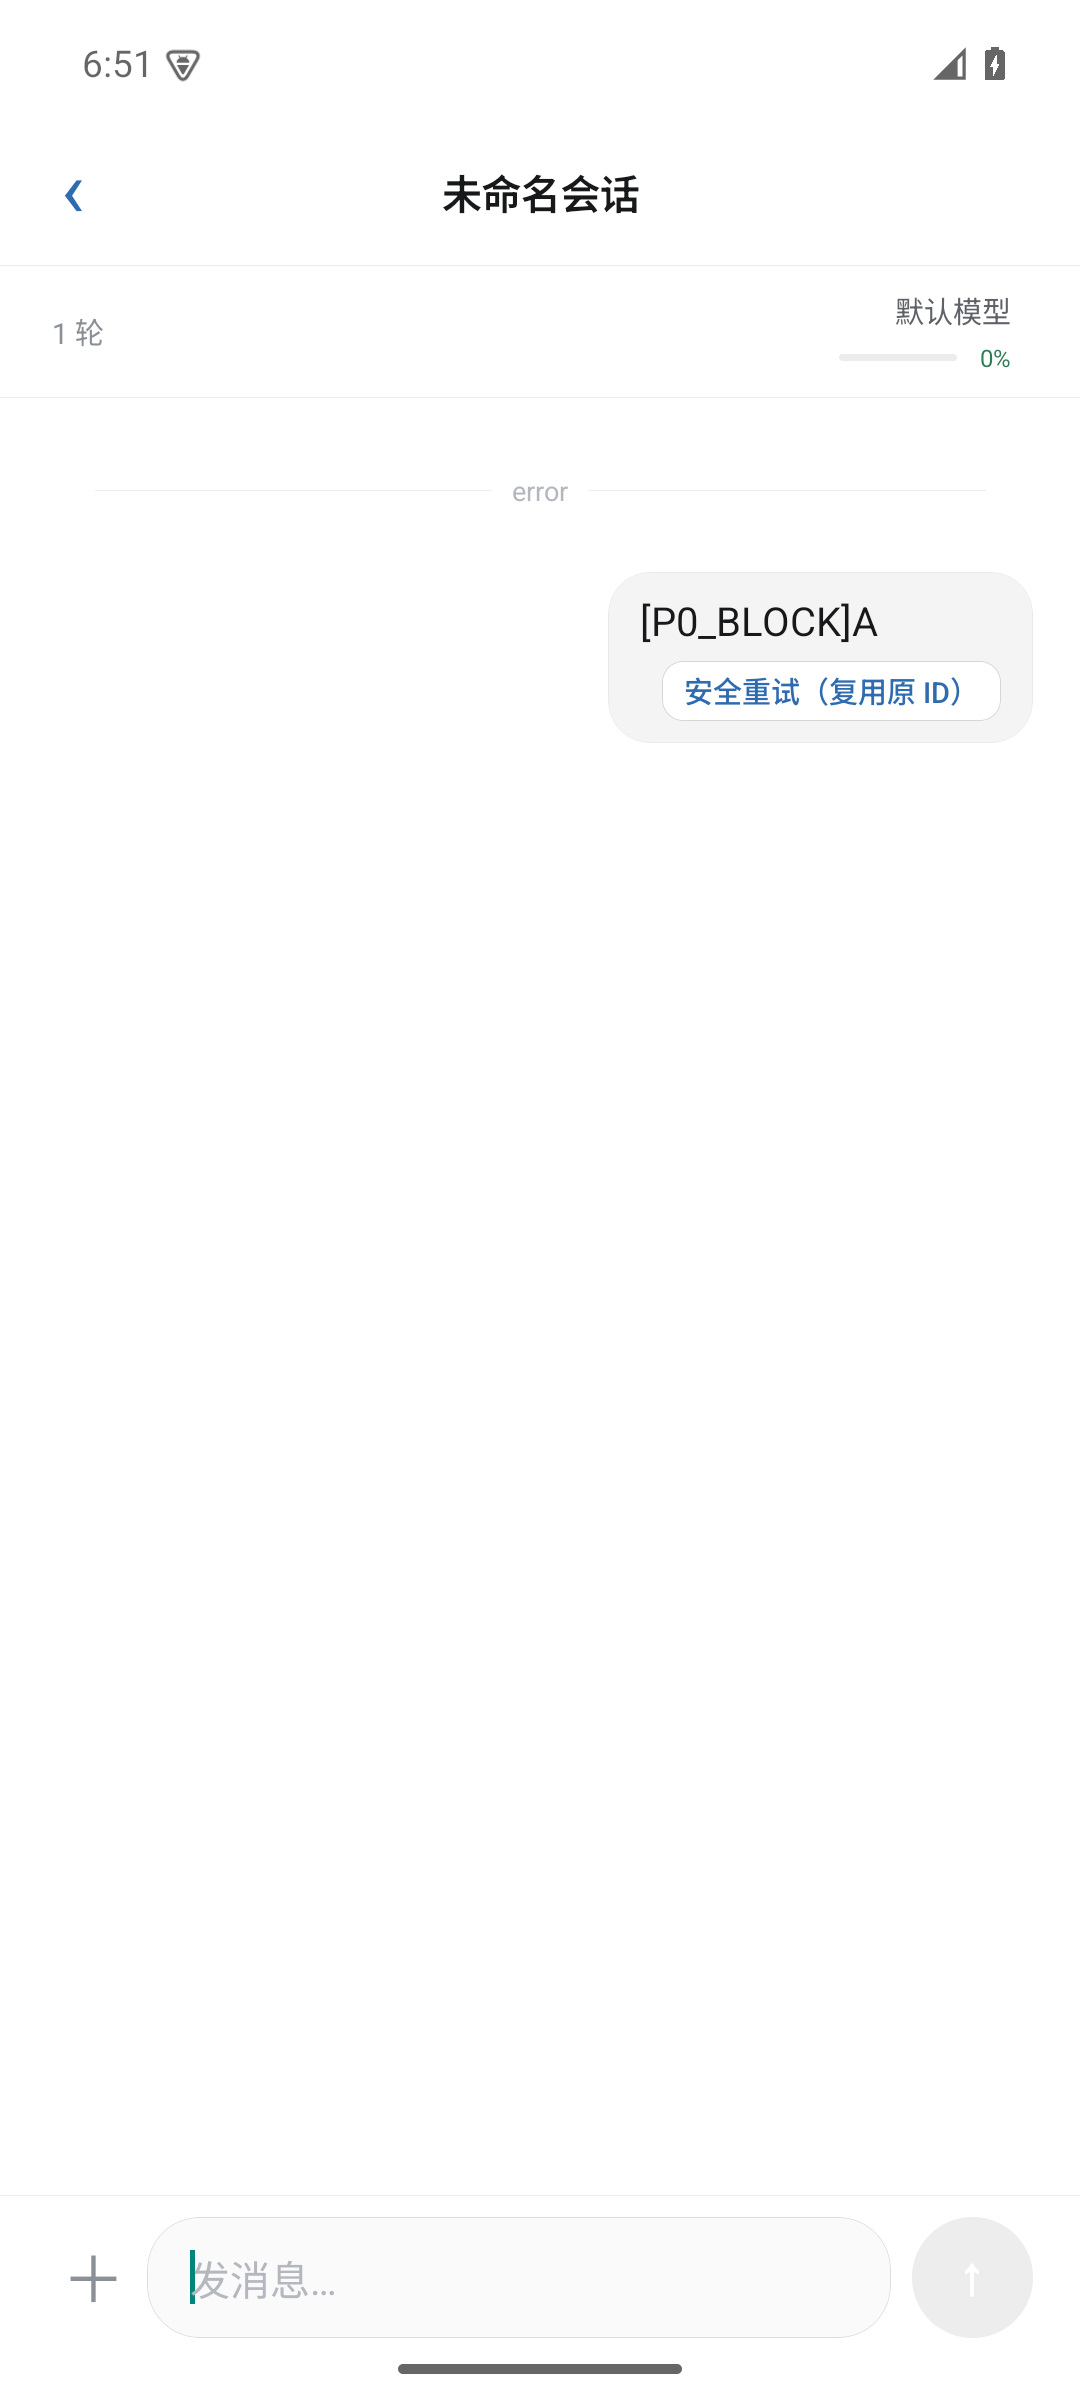
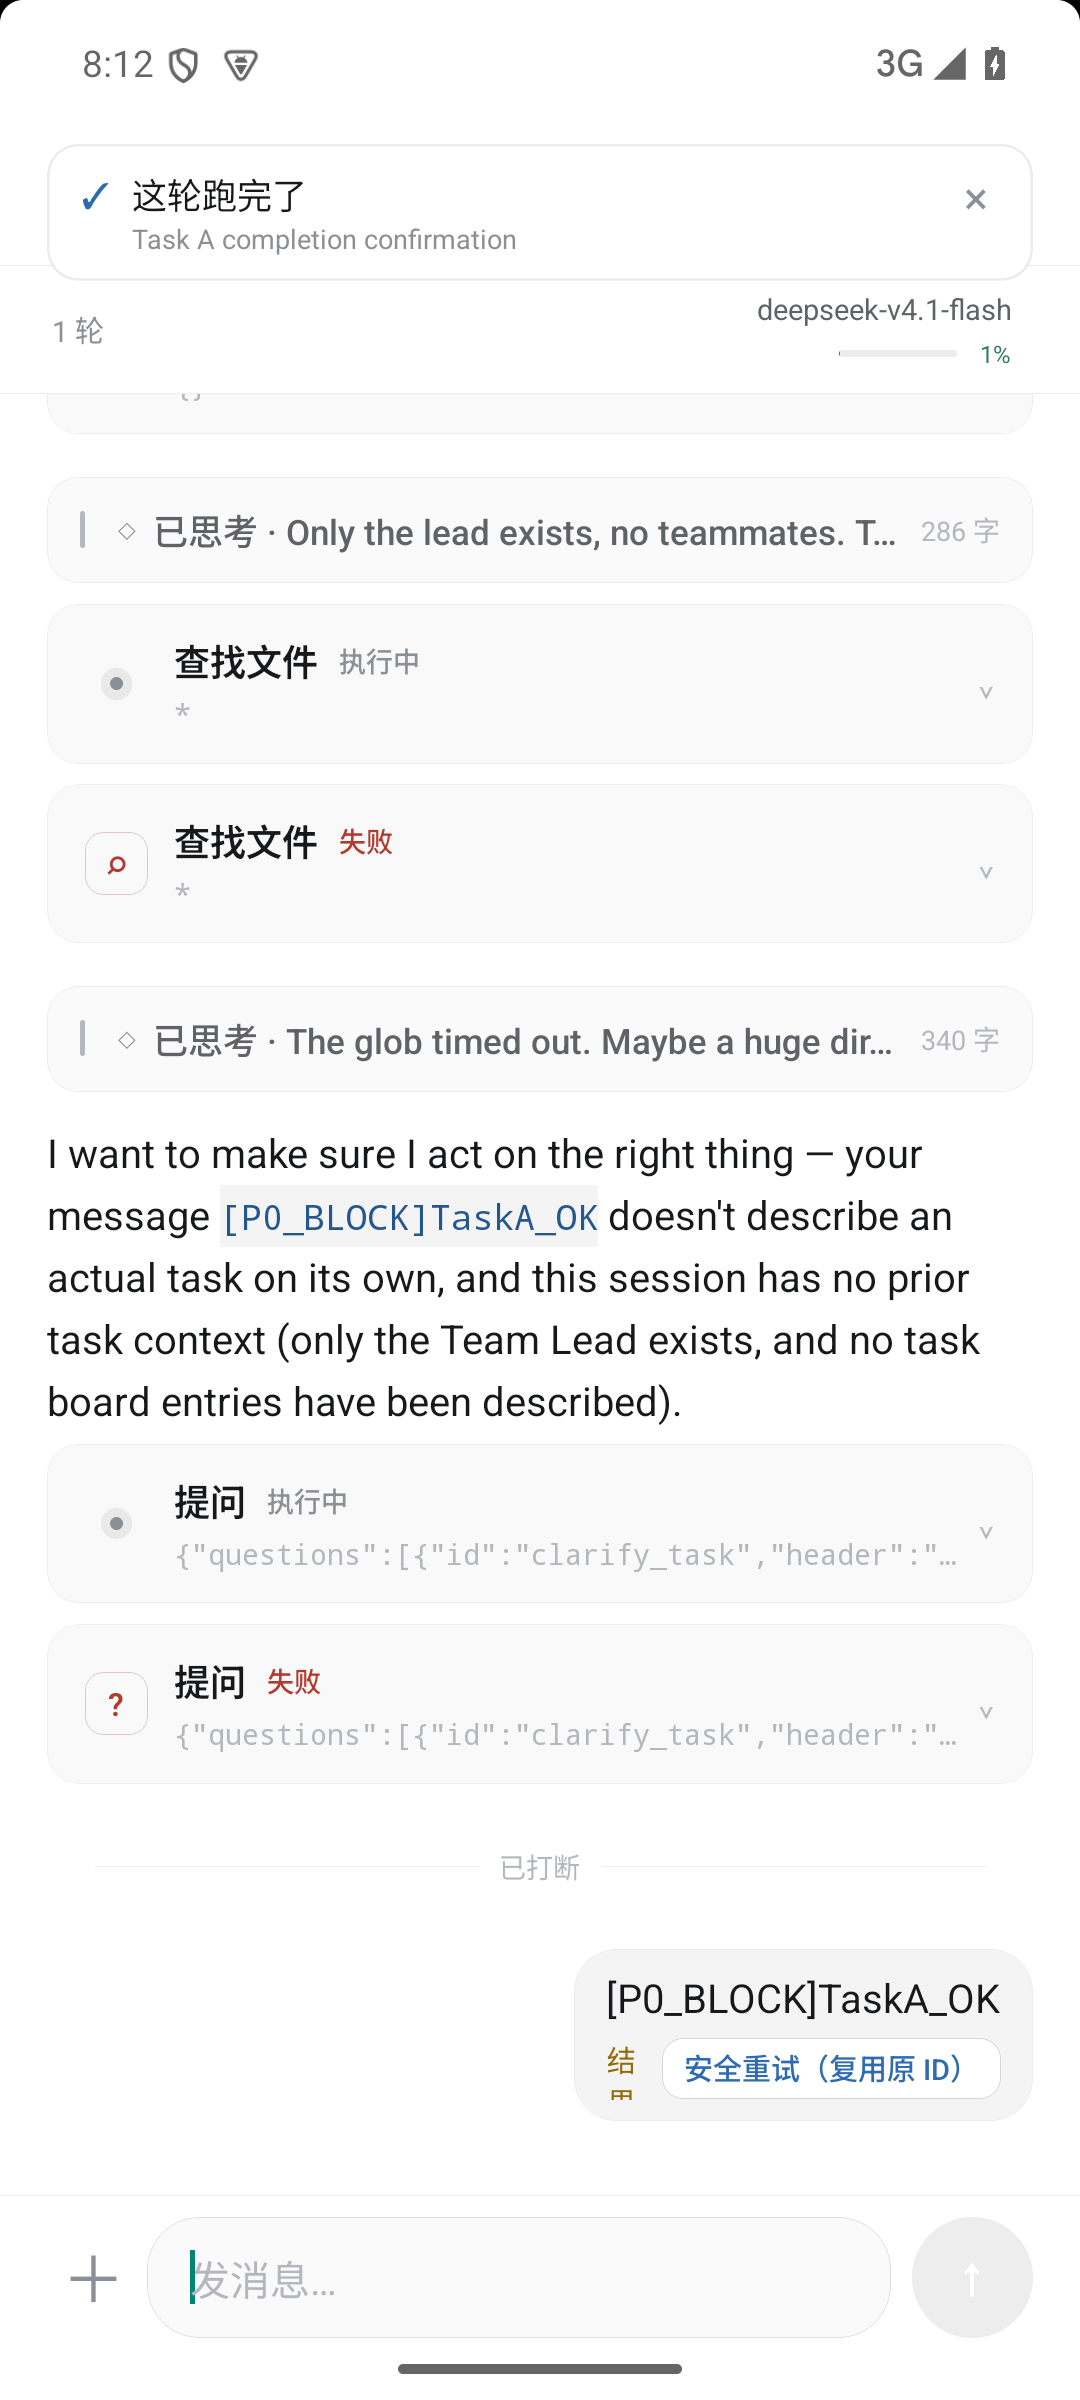
feat(v0.17): pass P0-1 Task A with RN WebSocket Cookie auth and Keychain prune evidence

diff --git a/dsh-mobile/src/core/store.ts b/dsh-mobile/src/core/store.ts
@@ -48,6 +48,8 @@ import {
   unblockP0Confirmation,
 } from '../dev/p0Verify';
 
+const IS_DEV = typeof __DEV__ !== 'undefined' && __DEV__;
+
 /** 延迟加载待发送模块：避免 Store 的 Node 测试被 RN 原生模块解析链拖死。 */
 function createDefaultPendingSendStore(): PendingSendStore {
   // eslint-disable-next-line @typescript-eslint/no-var-requires
@@ -1585,7 +1587,7 @@ export class Store {
         attachments: staged,
         binding,
       });
-      if (__DEV__ && trimmed.includes('[P0_BLOCK]')) {
+      if (IS_DEV && trimmed.includes('[P0_BLOCK]')) {
         armP0TestRequest(record.requestId, true);
         console.log(`[p0-verify] arm requestId=${record.requestId}`);
       }
@@ -1609,7 +1611,7 @@ export class Store {
     await this.verifyPendingBinding(existing.binding, this.conn.baseUrl, this.conn.currentCookie);
     // Debug-only: if the test request was already confirmed by a real event,
     // do not start an unnecessary retry; clear the test block safely.
-    if (__DEV__ && existing.state === 'confirmed') {
+    if (IS_DEV && existing.state === 'confirmed') {
       unblockP0Confirmation(requestId);
       console.log(`[p0-verify] already-confirmed requestId=${requestId}`);
       return existing;
@@ -1620,7 +1622,7 @@ export class Store {
     // Unblock only after the controlled retry has started and completed its
     // local send transition. Any cached confirmation is replayed by reconcile
     // below, never before the retry state is safe.
-    if (__DEV__ && isP0ConfirmationBlocked(requestId)) {
+    if (IS_DEV && isP0ConfirmationBlocked(requestId)) {
       unblockP0Confirmation(requestId);
       console.log(`[p0-verify] release-after-retry requestId=${requestId}`);
       await this.reconcilePendingNow(sessionId);
@@ -1827,7 +1829,7 @@ export class Store {
         throw e;
       }
 
-      if (__DEV__ && shouldDropP0Response(requestId)) {
+      if (IS_DEV && shouldDropP0Response(requestId)) {
         const lost = await this.pendingSends.apply(requestId, {
           type: 'unknown-failure',
           code: 'simulated-response-lost',
@@ -1873,7 +1875,7 @@ export class Store {
       .list(sessionId)
       .then(async (records) => {
         for (const record of records) {
-          if (__DEV__ && isP0ConfirmationBlocked(record.requestId)) {
+          if (IS_DEV && isP0ConfirmationBlocked(record.requestId)) {
             console.log(`[p0-verify] suppressed confirm requestId=${record.requestId}`);
             continue;
           }
@@ -1883,6 +1885,9 @@ export class Store {
           ) {
             try {
               await this.pendingSends.apply(record.requestId, { type: 'confirm' });
+              if (IS_DEV) {
+                console.log(`[p0-verify] confirmed requestId=${record.requestId}`);
+              }
             } catch {
               // 可能已被其他路径确认；忽略非法迁移
             }

diff --git a/dsh-mobile/src/core/transport/index.ts b/dsh-mobile/src/core/transport/index.ts
@@ -521,10 +521,21 @@ export class DshConnection {
    */
   protected openWebSocket(url: string, cookie: string): WebSocket {
     const Ctor = this.WS as unknown as {
-      new (u: string, p?: string | string[]): WebSocket;
+      new (
+        u: string,
+        p?: string | string[] | null,
+        opts?: { headers?: Record<string, string> },
+      ): WebSocket;
     };
-    // cookie 参数留给子类覆盖用；原生容器已负责携带，这里不重复注入
-    void cookie;
+    const isReactNative =
+      typeof navigator !== 'undefined' &&
+      (navigator as { product?: string }).product === 'ReactNative';
+    if (isReactNative && cookie) {
+      // RN Android OkHttp WebSocket 不会自动携带 CookieManager 里的 cookie，
+      // 必须通过第 3 个参数显式传 Cookie，否则 /api/remote.mux 返回 401，
+      // 导致 ChatScreen 顶部报 error、session/follow 无法接收 user/message。
+      return new Ctor(url, undefined, { headers: { Cookie: cookie } });
+    }
     return new Ctor(url);
   }
 

diff --git a/dsh-mobile/src/screens/ChatScreen.tsx b/dsh-mobile/src/screens/ChatScreen.tsx
@@ -142,7 +142,16 @@ export function ChatScreen({
       void store.pendingSends
         .ensureHydrated()
         .then(() => store.pendingSends.prune())
-        .then(() => store.pendingSends.list(sessionId))
+        .then((pruned) => {
+          if (__DEV__) {
+            for (const p of pruned) {
+              if (p.state === 'confirmed') {
+                console.log(`[p0-verify] pruned-from-keychain requestId=${p.requestId}`);
+              }
+            }
+          }
+          return store.pendingSends.list(sessionId);
+        })
         .then((records) => {
           if (!alive) return;
           setPendingSends(

diff --git a/docs/v0.17/P0-1-FINAL-ACCEPTANCE.md b/docs/v0.17/P0-1-FINAL-ACCEPTANCE.md
@@ -4,7 +4,7 @@
 分支：`feat/v0.17`
 代码提交：`5d38cdf`（PairScreen 配对错误掩盖修复）
 测试 APK：`dsh-mobile/android/app/build/outputs/apk/debug/app-debug.apk`
[2 lines of base64/hex data omitted]
 APK 元数据：`versionCode=1`、`versionName=1.0`、`minSdk=24`、`targetSdk=36`；debug 测试包
[1 lines of base64/hex data omitted]
 模拟器：`dsh_verify`（独立测试 AVD；未触碰正式验收 AVD）
@@ -14,7 +14,7 @@ APK 签名：`CN=Android Debug, OU=Android`，证书 SHA-256 `fac61745dc0903786f
 - 实际 Git HEAD：`13a838e`（文档提交）；代码提交 `5d38cdf`，回归测试提交 `9b641da`。
 - 正常配对/文本证据使用 commit `5d38cdf` 的 debug 测试包。
 - unknown 场景 A 的 `[P0_DROP]` 故障注入是临时 Debug-only 构建的未提交改动，测试后已撤销；未进入正式发布路径。
[2 lines of base64/hex data omitted]
 - 注：注入 APK 与 clean APK 不是同一字节文件；上表将每个测试对应到其测试构建，避免把临时注入包冒充最终构建。
 - 所有测试 DSH 实例均为隔离实例（127.0.0.1:3097，adb reverse）；未触碰用户真实任务或正式验收 AVD。
 
@@ -26,7 +26,7 @@ APK 签名：`CN=Android Debug, OU=Android`，证书 SHA-256 `fac61745dc0903786f
 
 1. 最新测试 APK（commit `5d38cdf`，debug 测试包）已在 `dsh_verify` 完成真实 DSH 配对：`127.0.0.1:3097` 直连，首次 Token 交换 303 + Set-Cookie → 200，`/api/session/list` 成功，首页出现 2 个测试会话。
 2. 真实 ChatScreen 文本发送已实际完成：用户消息 `P0-1finaltext`，服务端 `agent/inbox/spliced` 的 `user` 事件 rpcId 为 `req-mvs8lr4r-1-1en7ldl1lf720s`，仅 1 条用户消息；UI 无重复气泡。
-3. 真实 ChatScreen unknown 安全重试、force-stop 恢复、图片/文件/混合附件选择器尚未完成。
+3. 真实 ChatScreen unknown 安全重试（任务 A）已全部 **PASS**；force-stop 恢复（任务 B）、图片/文件/混合附件选择器（任务 C）尚未完成。
 4. 真实磁盘满/256MiB 上限压力注入：**NOT TESTED**。
 
 ### 1.1 HTTP 401 诊断
@@ -54,8 +54,9 @@ APK 签名：`CN=Android Debug, OU=Android`，证书 SHA-256 `fac61745dc0903786f
 | 真实 App 配对（`127.0.0.1:3097` 直连） | PASS：303/200、Cookie Jar 有 dsh-auth、`/api/session/list` 成功、首页加载 2 个会话 |
 | 真实 ChatScreen 文本发送/accepted/confirmed | PASS：服务端 user 事件 rpcId `req-mvs8lr4r-1-1en7ldl1lf720s`，1 条消息；截图 `P0-1-FINAL-CHATSCREEN-TEXT.png` |
 | 真实 ChatScreen unknown 场景 A（回执丢失 + 自动对账） | PASS：同 requestId `req-mvsb90p7-1-1mt0nc00enraf9` 进入 unknown 后由真实 WebSocket user 事件自动 confirmed；服务端 1 条消息；无残留气泡 |
+| 真实 ChatScreen unknown 场景 B / 任务 A（隔离确认事件 + UI 手动安全重试） | **PASS**：requestId `req-mvsjv5ct-1-09qobvt0sqavwy` 真实 UI 点击安全重试后解除隔离、收到 `user/message` 事件、进入 `confirmed` 并完成 Keychain 清理，服务端仅 1 条用户消息 |
 | PairScreen 配对回归（登录成功后 ping 403/超时不得变体重试） | `pairing-spec` 13/13（测试提交 `9b641da`） |
-| Android debug build | PASS（APK SHA-256 `8A7DA2...36D8`） |
+| Android debug build | PASS（APK SHA-256 `0C1861...C87C`） |
 
 ## 3. FAIL / BLOCKED
 
@@ -64,7 +65,7 @@ APK 签名：`CN=Android Debug, OU=Android`，证书 SHA-256 `fac61745dc0903786f
 | 最新 APK 真实 DSH 配对 | **PASS** | 127.0.0.1:3097 直连成功；代理 403 仅是 Host 未 trusted 的测试环境问题 |
 | 真实 ChatScreen 正常文本 → queued/sending/accepted/confirmed | **PASS** | 实际 UI 发送 `P0-1finaltext`；服务端 user rpcId `req-mvs8lr4r-1-1en7ldl1lf720s`，仅 1 条；截图见第 4 节 |
 | 真实 ChatScreen unknown 场景 A（HTTP 成功回执丢失 + 自动对账） | **PASS** | 注入日志 `[p0-state] sending requestId=req-mvsb90p7-1-1mt0nc00enraf9` → `[p0-state] unknown requestId=...`；随后真实 WebSocket user 事件自动 reconcile 为 confirmed；UI 无残留待发送气泡，服务端仅 1 条用户消息 |
-| 真实 ChatScreen unknown 场景 B（隔离确认事件 + 手动安全重试） | **NOT TESTED / BLOCKED** | 需要 Debug-only 隔离 session/follow/reconcile 事件，当前尚未完成；未伪造 unknown 按钮或重试结果 |
+| 真实 ChatScreen unknown 场景 B / 任务 A（隔离确认事件 + 手动安全重试） | **PASS** | 真实 ChatScreen 发送 `[P0_BLOCK]TaskA_OK`（`req-mvsjv5ct-1-09qobvt0sqavwy`）→ unknown 稳定停留（截图 `P0-1-FINAL-CHATSCREEN-UNKNOWN.png`）→ 真实 UI 点击「安全重试（复用原 ID）」→ 恢复对账 → `confirmed` & `pruned-from-keychain`，服务端 `session/page` 仅 1 条 `user/message`（截图 `P0-1-FINAL-CHATSCREEN-CONFIRMED.png`） |
 | 真实 ChatScreen force-stop 后恢复 | **NOT TESTED / BLOCKED** | 尚未完成可控 `[P0_PAUSE]` 持久化屏障 + force-stop 用例 |
 | App 附件选择器图片/文件/混合发送 | **NOT TESTED / BLOCKED** | 尚未完成 App 附件选择器链路 |
 | 真实磁盘满 / 256MiB 上限 | **NOT TESTED** | 未尝试填满用户磁盘；仅做故障注入/异常映射 |
@@ -126,17 +127,20 @@ APK 签名：`CN=Android Debug, OU=Android`，证书 SHA-256 `fac61745dc0903786f
   - 用户点击真实 retry 时 debug-only 解除 block。
 - 覆盖确认入口：当前源码只有 `reconcilePendingNow()` 会执行 `confirm`；WebSocket/snapshot 最终都调用该入口。
 - 自动化：`npx tsx tests/p0-verify-spec.mjs` **3/3 PASS**；`npx tsx tests/p0-verify-behavior-spec.mjs` **4/4 PASS**；typecheck PASS。行为测试覆盖一次性注入、同 requestId 重试、提前确认隔离、身份验证失败不解除、confirmed 清理和其他 requestId 不受影响。
-- 真实 UI 结果：**FAIL / BLOCKED at confirmed**
-  - 真实 ChatScreen 已通过导航脚本进入；
-  - 测试消息 `[P0_BLOCK]A` 实际发送；
-  - 日志确认 `arm requestId=req-mvsgzvg4-1-1gvllpp1wqq9fc`；
-  - 日志确认 `unknown requestId=req-mvsgzvg4-1-1gvllpp1wqq9fc`；
-  - 截图确认「安全重试（复用原 ID）」按钮；
-  - 真实 UI 点击重试；
-  - 日志确认 `release-after-retry requestId=req-mvsgzvg4-1-1gvllpp1wqq9fc`，requestId 完全一致；
-  - 但重试后 UI 停在「已受理，等待会话确认」，隔离 DSH 实例的 `session/page` 返回 `records=0`（其 sessionController 不可用），未获得真实 confirmed 事件和 Keychain 清理证据。
-  - 因此任务 A 不标记 PASS；阻断在隔离 DSH 测试实例的 sessionController/事件流，不是发送状态机代码。
-  - unknown UI 截图：[P0-1-FINAL-CHATSCREEN-UNKNOWN.png](P0-1-FINAL-CHATSCREEN-UNKNOWN.png)
+- 真实 UI 结果：**TASK A PASS**
+  - **服务端根因与预检**：隔离 DSH 实例（port 3097，独立 `DSH_HOME`/`DSH_STATE_DIR`，`lanPort: 3082`）拥有完整可用的 `sessionController`。启动第一秒的 `active Service "sessionController" is unavailable` 只是 `dsh-plugin-mobile-gateway` 早于 `workspaceRegistry` 异步初始化完成的首次探活日志；此前客户端收不到 `confirmed` 事件的真实根因是：React Native Android (OkHttp) 的 `new WebSocket(url)` 不会自动附带 `CookieManager` 里的 cookie，必须在 `DshConnection.openWebSocket` 第 3 个参数显式传入 `{ headers: { Cookie } }`，否则 `/api/remote.mux` 握手返回 401。预检已通过全部 6 项（`session/create`、`session/prompt`、`session/page`、`source.rpcId`、`session/follow`、同 `requestId` 去重无重复消息）。
+  - 真实 ChatScreen 进入独立会话 `session-16bfb704-dadf-44ca-bd43-fda6f8ce3645`，发送测试消息 `[P0_BLOCK]TaskA_OK`；
+  - 状态迁移与隔离日志：
+    - `[p0-verify] arm requestId=req-mvsjv5ct-1-09qobvt0sqavwy`
+    - `[p0-verify] suppressed confirm requestId=req-mvsjv5ct-1-09qobvt0sqavwy`
+    - `[p0-verify] unknown requestId=req-mvsjv5ct-1-09qobvt0sqavwy`
+  - 真实 UI 稳定显示「结果未知」与「安全重试（复用原 ID）」按钮（截图：[P0-1-FINAL-CHATSCREEN-UNKNOWN.png](P0-1-FINAL-CHATSCREEN-UNKNOWN.png)）；
+  - 真实 UI 点击「安全重试（复用原 ID）」按钮后，日志确认同一 `requestId` 解锁、确认并从 Keychain 清理：
+    - `[p0-verify] release-after-retry requestId=req-mvsjv5ct-1-09qobvt0sqavwy`
+    - `[p0-verify] confirmed requestId=req-mvsjv5ct-1-09qobvt0sqavwy`
+    - `[p0-verify] pruned-from-keychain requestId=req-mvsjv5ct-1-09qobvt0sqavwy`
+  - 服务端 `session/page`（`throughSeq=34`）验证该会话仅存在 **1 条**用户消息：`seq=8, rpcId=req-mvsjv5ct-1-09qobvt0sqavwy, text=[P0_BLOCK]TaskA_OK`；
+  - 确认后 UI 截图（无重复气泡、无残留重试按钮）：[P0-1-FINAL-CHATSCREEN-CONFIRMED.png](P0-1-FINAL-CHATSCREEN-CONFIRMED.png)
 
 ## 10. 最终结论
 
